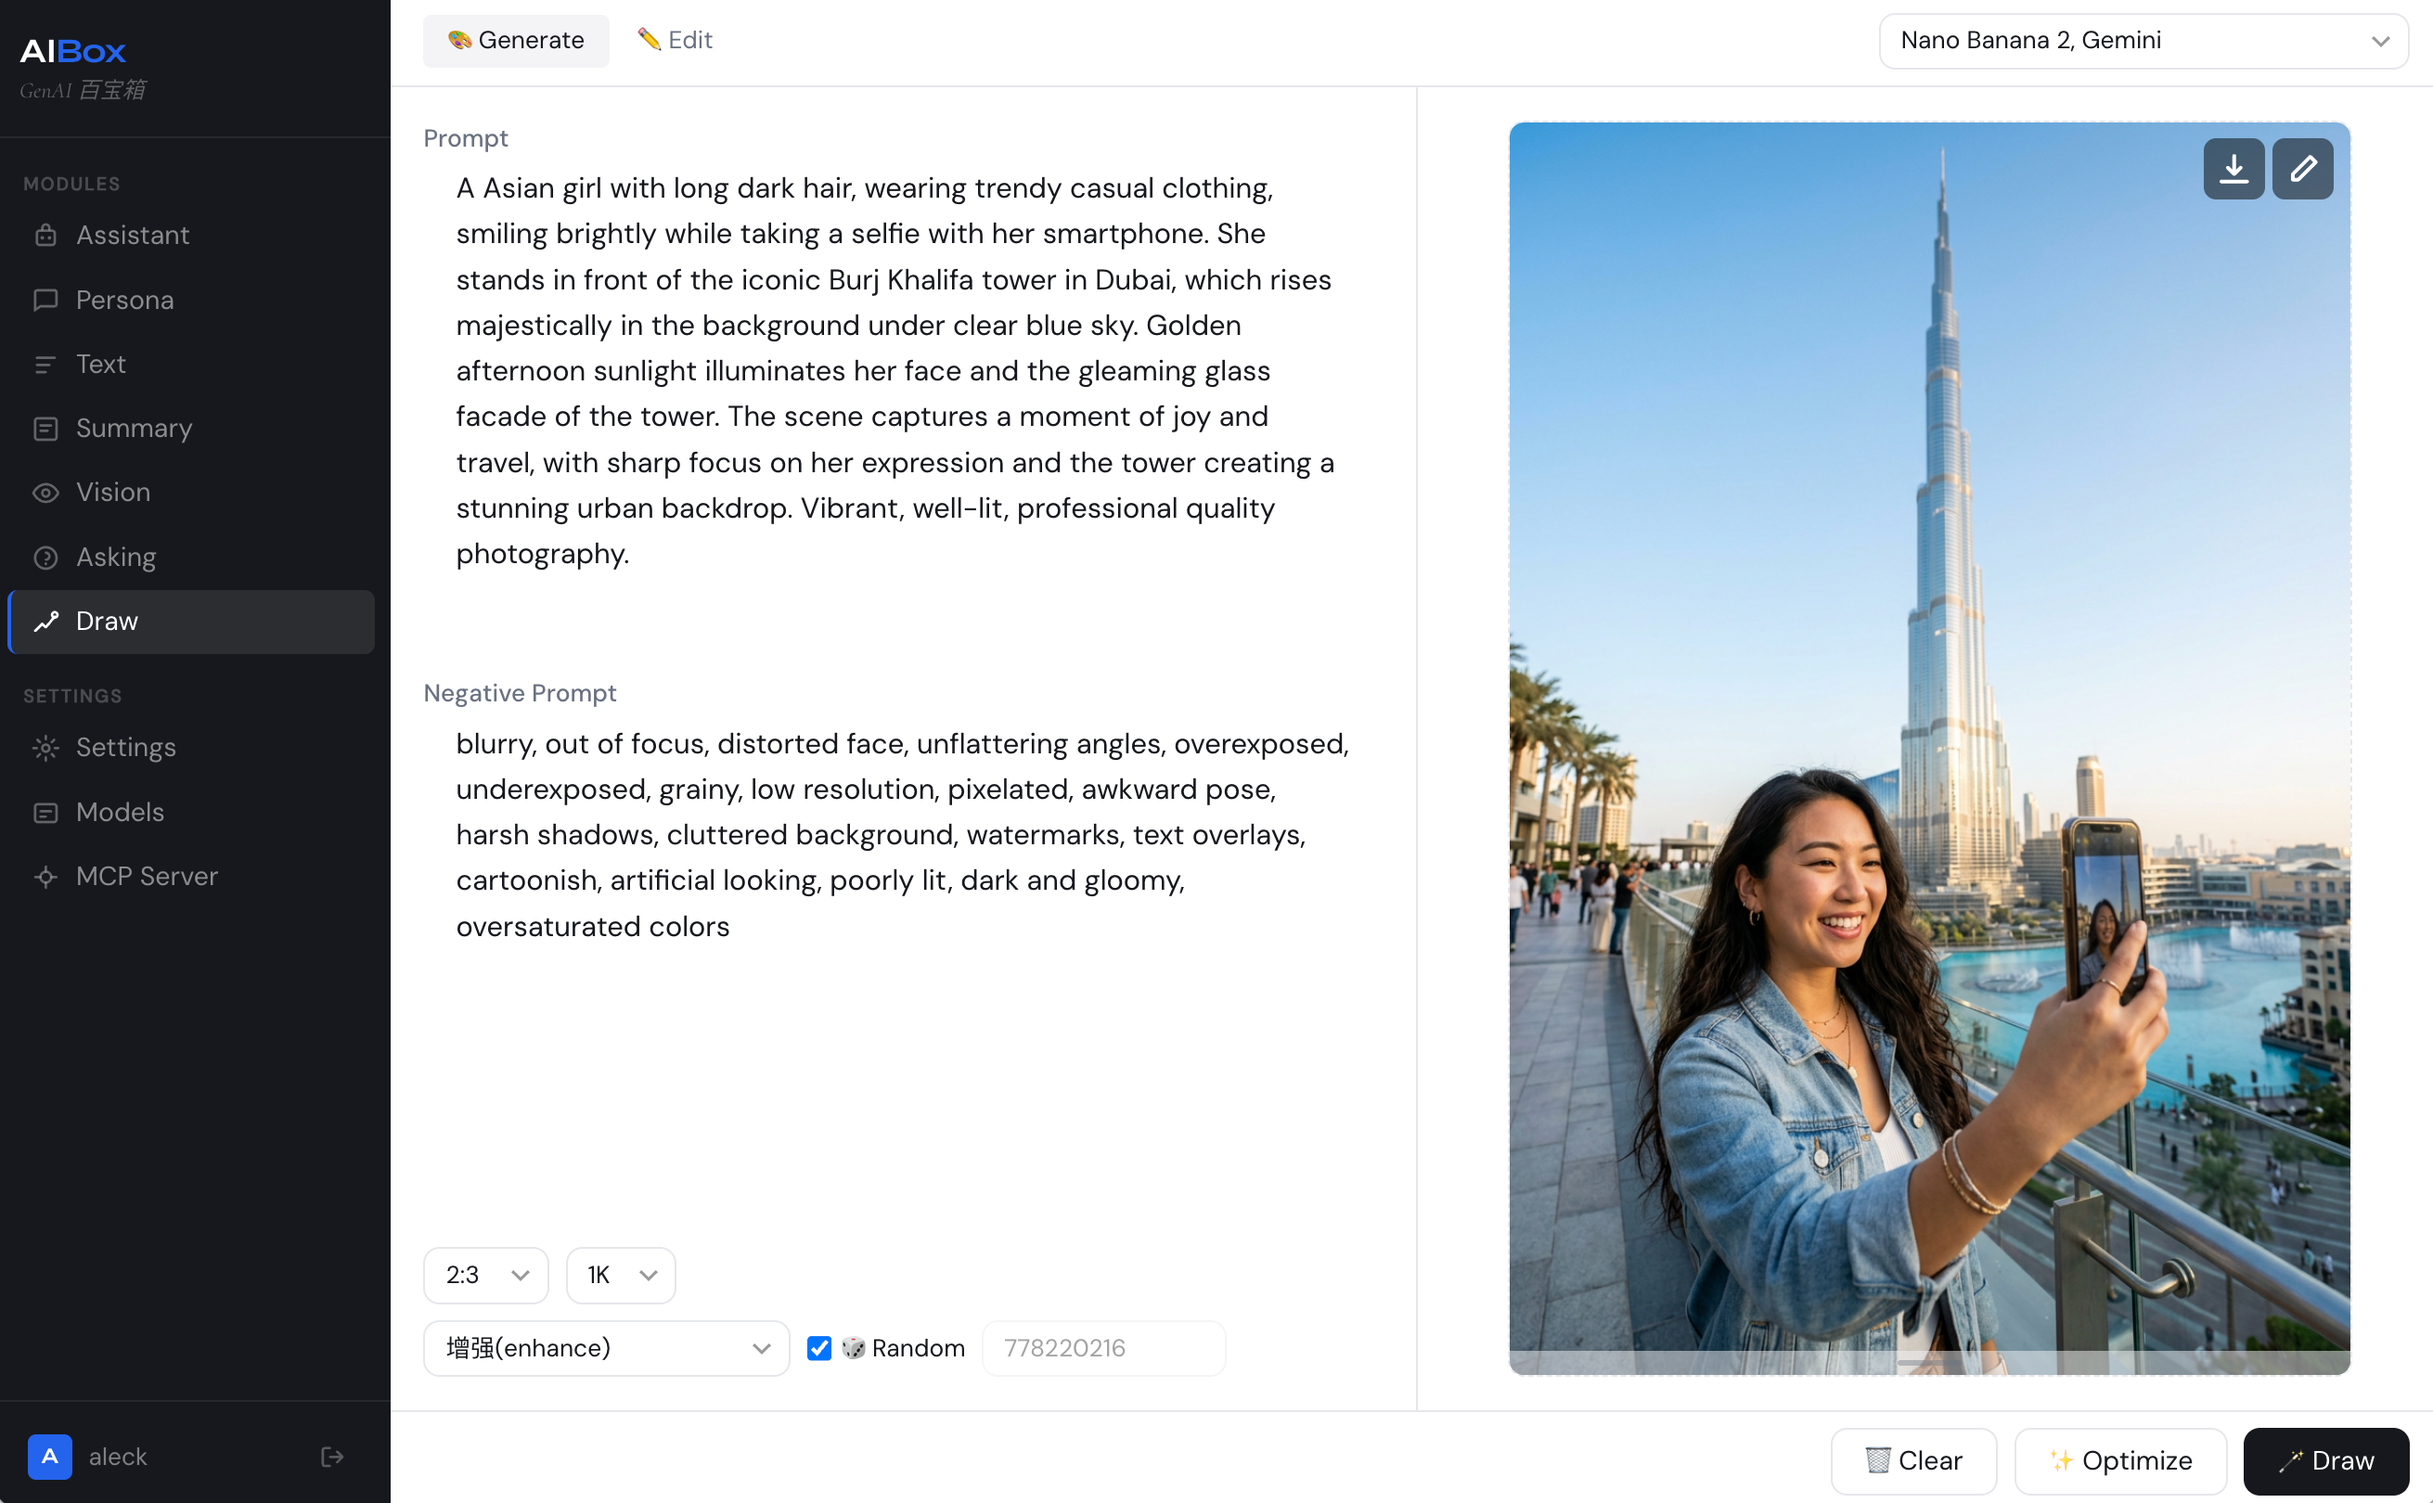
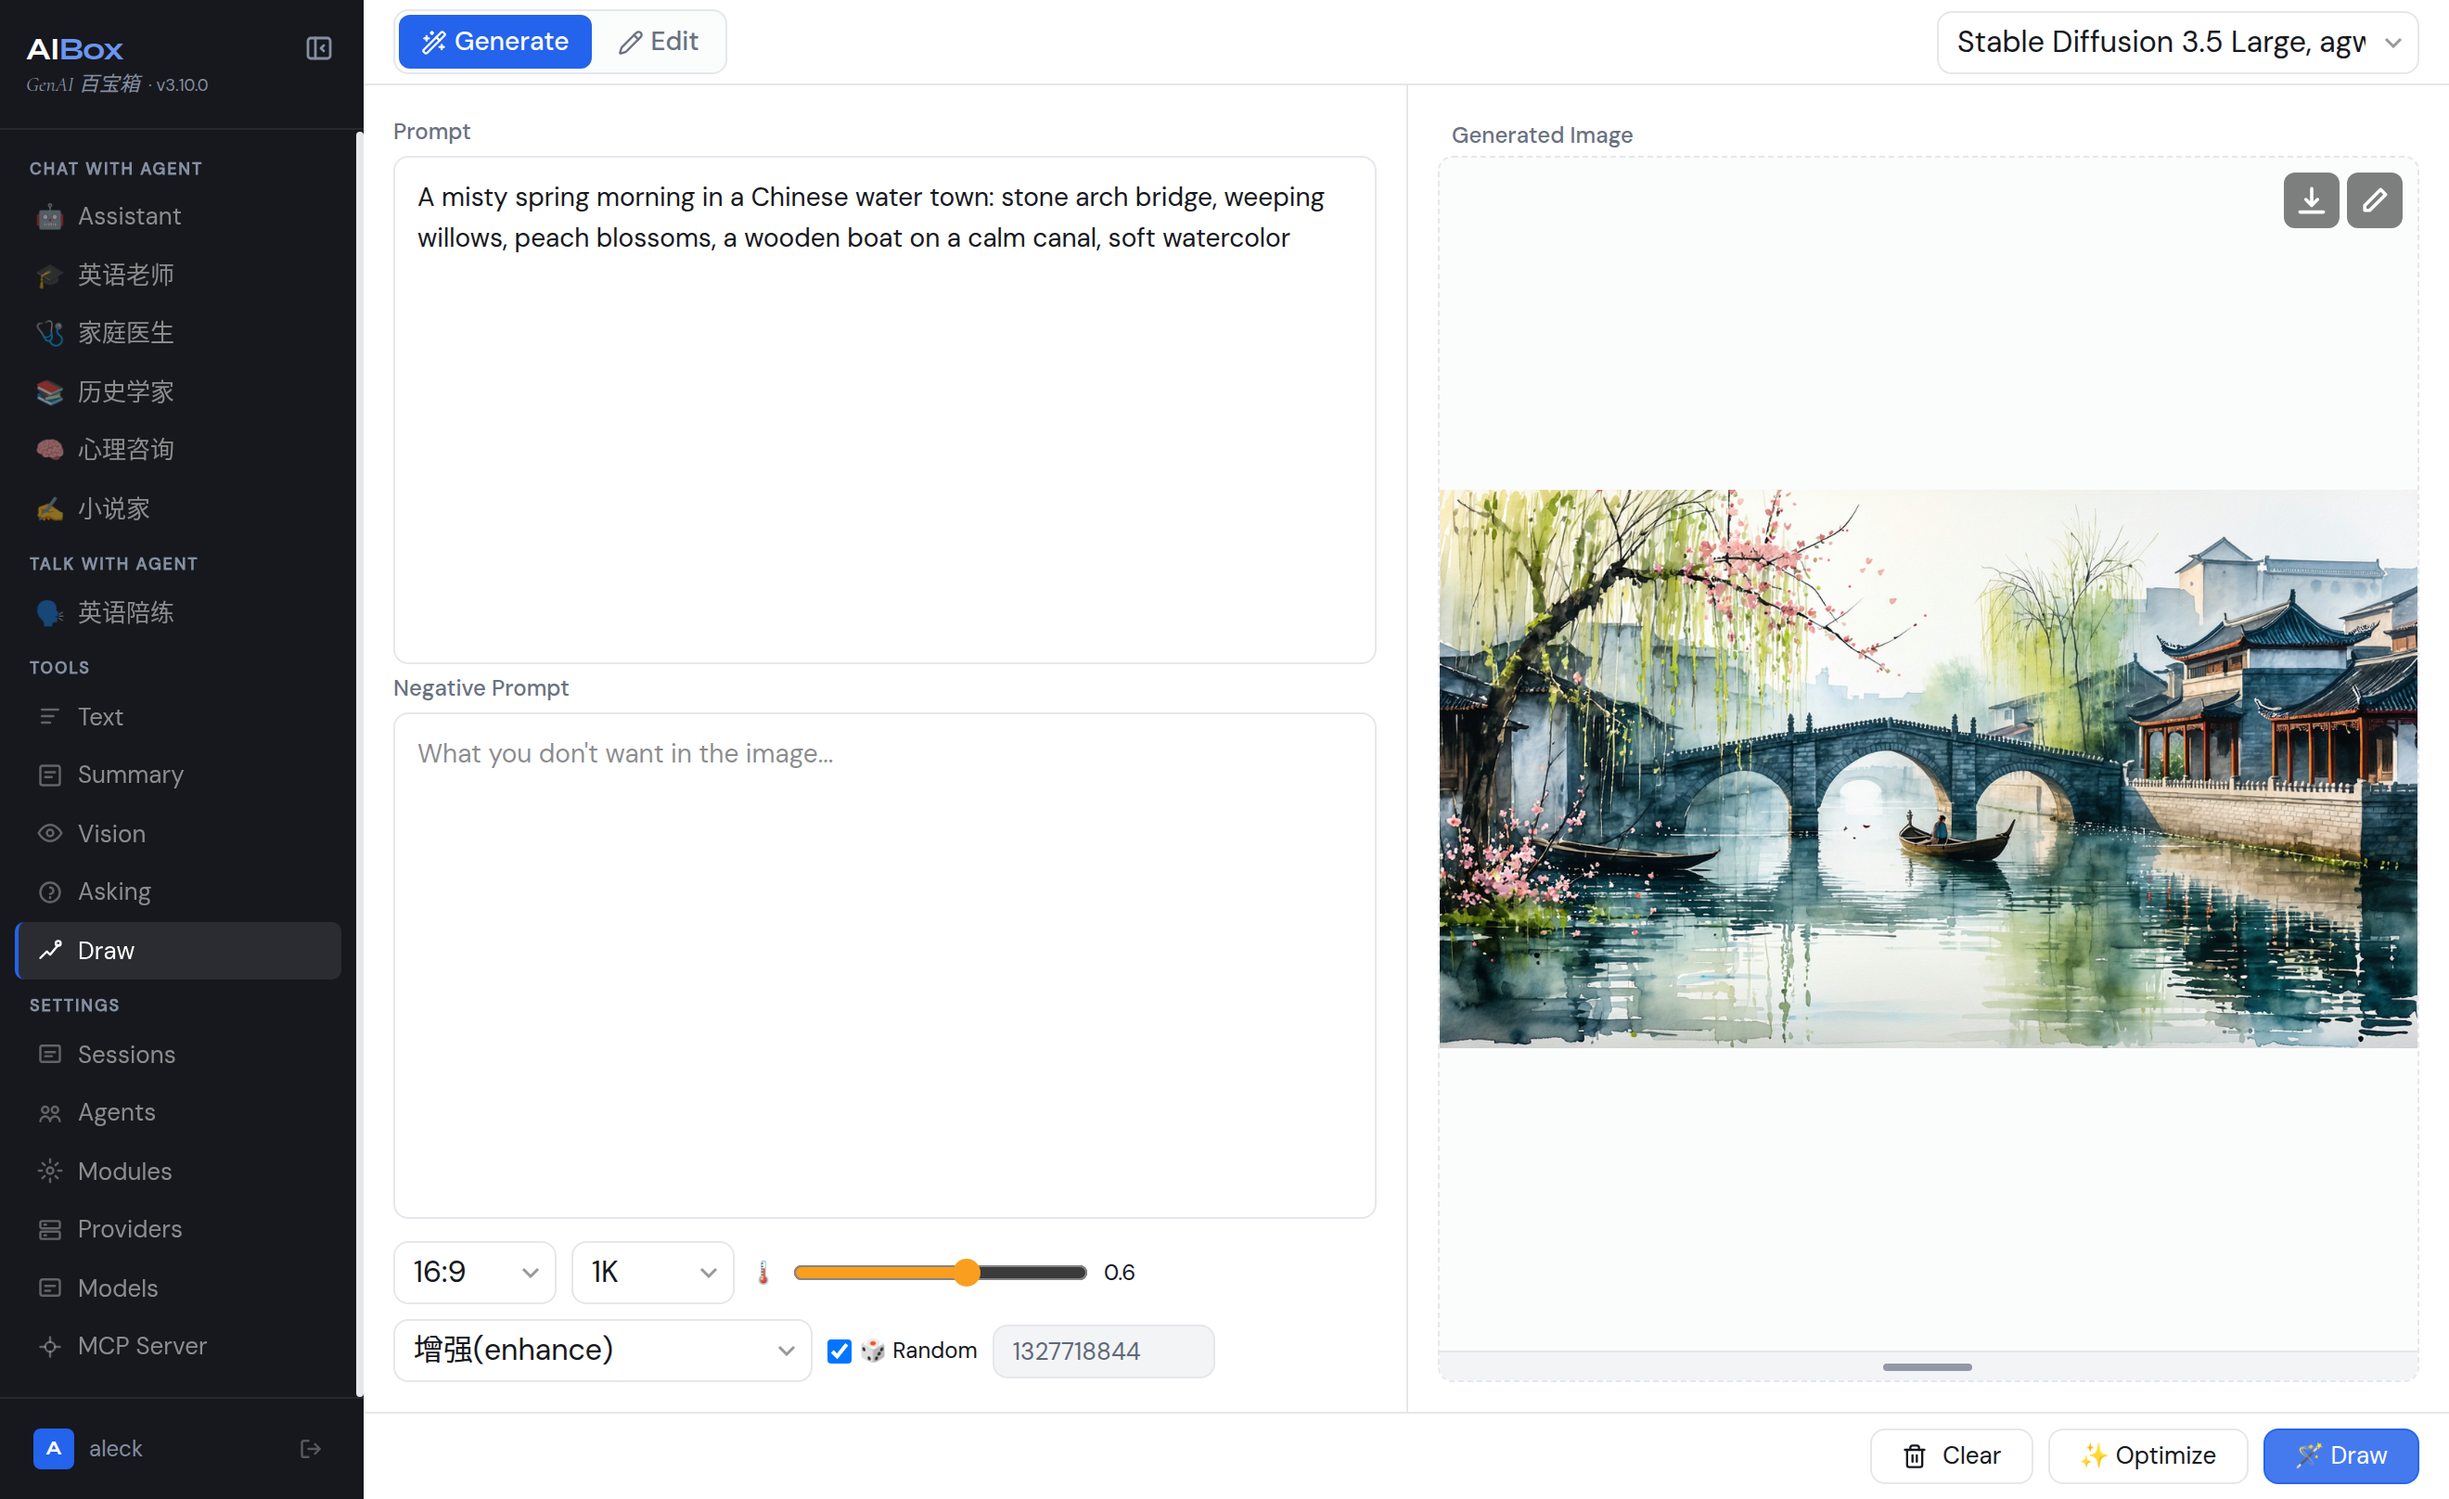
chore(release): v3.10.0

diff --git a/README.md b/README.md
@@ -6,14 +6,13 @@ MyAIBOX (AI百宝箱) is a comprehensive Gen-AI application suite built with Fas
 
 ## Overview
 
-The application integrates multiple GenAI models (Bedrock, Gemini, OpenAI), with sign-in through Myners SSO and conversation storage in DynamoDB. It features a modular architecture with a React frontend communicating via AG-UI Protocol (SSE streaming).
+The application integrates multiple GenAI models (Bedrock, Anthropic, OpenAI, Gemini, directly or through a gateway such as agentgateway), with sign-in through Myners SSO and conversation storage in DynamoDB. It features a modular architecture with a React frontend communicating via AG-UI Protocol (SSE streaming).
 
-🎉 **What's New in v3.9**
-- **Models**: only the latest generation of each family — Claude 5.5 (Opus/Sonnet/Haiku) + Fable 5.1, GPT-6 (Astra/6.1 Sol/Luna), Grok 4.7, GLM 5.3, Kimi K3, Qwen3-VL, Nova 2.5 Sonic, Gemini 3.8 Flash; older generations are retired
-- **Security**: MCP changes are admin-gated (`ADMIN_SUBS`); uploads are owner-scoped and size-limited (`MAX_UPLOAD_MB`)
-- **Fixes**: models that reject `temperature`/`top_p`/`top_k` no longer fail when thinking is off; Chat works on Gemini, Nova and GPT-OSS again
-- **Sign-in**: Myners SSO only; logout ends the SSO session
-- **Upgrading**: run `uv sync` and `my-aibox build`; apply the model changes in Settings → Models; 3.9.6 needs `EXA_API_KEY` and moves workspaces to `storage/workspace/<sub>`. See [CHANGELOG.md](CHANGELOG.md).
+🎉 **What's New in v3.10**
+- **LLM providers**: Settings → Providers holds each endpoint and its credentials (AWS, or an API key / Secrets Manager secret); a model names its provider and its API, so a gateway such as agentgateway is one provider entry
+- **APIs**: Bedrock Converse / InvokeModel / Bidirectional Stream, Anthropic Messages, OpenAI Responses / Chat Completions, Gemini; Bedrock Converse models can use the flex tier
+- **Models**: Claude, GPT-6, Grok 4.7, GLM 5.3, Kimi K3.1, Nova 2 Lite and Stability go through agentgateway; Kimi K3 → K3.1
+- **Upgrading**: run `uv sync` and `my-aibox build`; models need `provider` and `api`; the `BEDROCK_*`, `GEMINI_SECRET_ID` and `OPENAI_SECRET_ID` variables are gone. See [CHANGELOG.md](CHANGELOG.md).
 
 ## Features
 
@@ -24,24 +23,29 @@ The application integrates multiple GenAI models (Bedrock, Gemini, OpenAI), with
 * **Asking** 🧠 — Research-style deep Q&A: voice or text input, follow-up threads, per-question reasoning
 * **Vision** 👀 — Image analysis, document understanding (PDF), multi-model support
 * **Draw** 🎨 — AI image generation and editing with prompt optimization, style/ratio/seed options
-* **Settings** ⚙ — Account management, module configuration, model registry, MCP server management
+* **Settings** ⚙ — Sessions, agents, module configuration, LLM providers, model registry, MCP server management
 
 Supported input formats: jpg/jpeg, png, gif, webp, pdf, csv, doc/docx, xls/xlsx, txt, md, mp4, webm, mov
 
 ## Screenshots
 
-### Multimodal Chatbot
-![my-aibox](/docs/screenshots/webchat.png "Multimodal Chatbot")
+### Chat: agents with tools (image generation, weather)
+![Chat](/docs/screenshots/webchat.png "Chat")
 
-### Vision Recognition
-![my-aibox](/docs/screenshots/vision.png "Vision Recognition")
+### Asking: research answers with web search
+![Asking](/docs/screenshots/asking.png "Asking")
 
-### Generate and Edit
-![my-aibox](/docs/screenshots/draw.png "Generate and Edit image")
+### Vision: image and document analysis
+![Vision](/docs/screenshots/vision.png "Vision")
 
+### Draw: image generation and editing
+![Draw](/docs/screenshots/draw.png "Draw")
 
-### Settings
-![my-aibox](/docs/screenshots/settings.png "Web UI")
+### Settings: LLM providers
+![Providers](/docs/screenshots/providers.png "Settings - Providers")
+
+### Settings: models (provider, API, service tier)
+![Models](/docs/screenshots/models.png "Settings - Models")
 
 ## Project Structure
 

diff --git a/CHANGELOG.md b/CHANGELOG.md
@@ -3,7 +3,7 @@
 All notable changes to MyAIBOX. The version lives in `pyproject.toml` (`my-aibox build` syncs it to the
 frontend and lockfiles). The README only highlights the latest release.
 
-## Unreleased
+## [3.10.0] - 2026-11-11
 
 ### Added
 - **LLM providers** (Settings → Providers): a provider holds an API base URL (empty for the official endpoint), its credentials (AWS SigV4, or an API key inline or by Secrets Manager secret name), a region and the APIs it serves; only `ADMIN_SUBS` can change them and an inline key is never sent back to the browser. A model names its provider and its API: Bedrock Converse, Bedrock InvokeModel, Bedrock Bidirectional Stream, Anthropic Messages, OpenAI Responses, OpenAI Chat Completions or Gemini. Bedrock Converse models also take a service tier (flex).
@@ -19,6 +19,9 @@ frontend and lockfiles). The README only highlights the latest release.
 - Editing a disabled model in Settings → Models no longer enables it.
 - Image generation (Draw and the Chat tool): when the image model's content filter rejects a prompt, the error says so instead of `'images'`.
 - Vision renders its analysis as Markdown instead of raw text.
+
+### Upgrade notes
+`uv sync` and `my-aibox build`. The registry gains a provider record (seeded on first start) and every model needs `provider` and `api` fields in place of `api_provider` / `region` / `base_url`. Remove `BEDROCK_REGION`, `BEDROCK_SECRET_ID`, `GEMINI_SECRET_ID` and `OPENAI_SECRET_ID` from `.env`; set `ADMIN_SUBS` to edit providers.
 
 ## [3.9.0] - 2026-10-10 ... [3.9.6] - 2026-10-29
 
